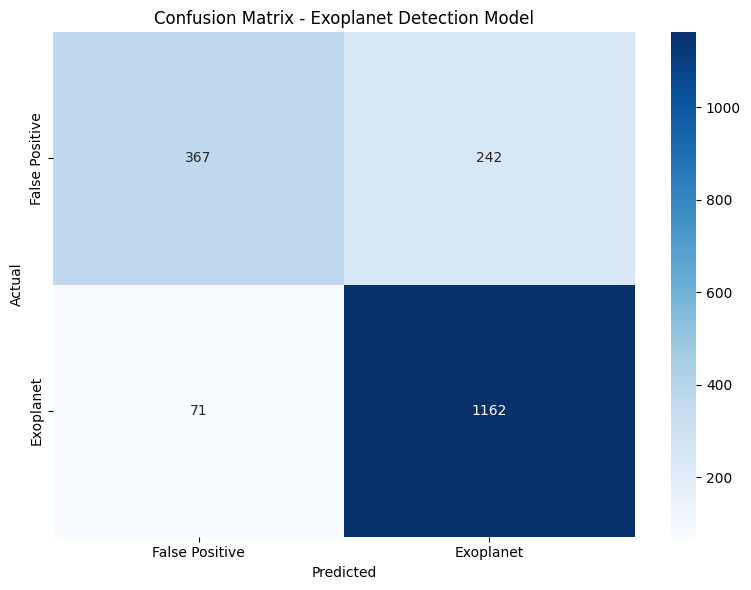
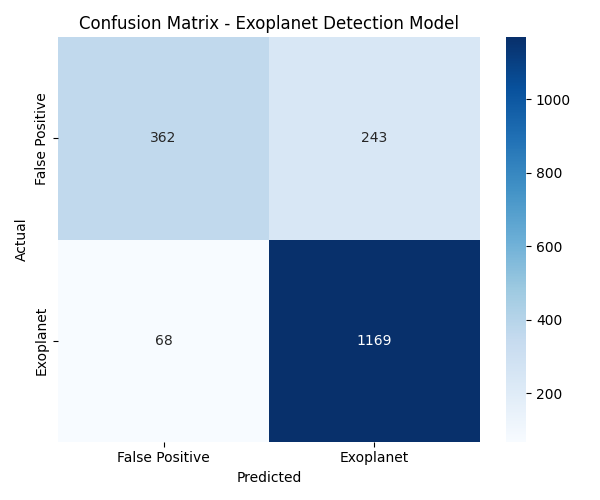
evaluate model now also updates the images accordingly

diff --git a/evaluate_model.py b/evaluate_model.py
@@ -9,6 +9,11 @@ import os
 import json
 from datetime import datetime
 import shutil
+import matplotlib
+matplotlib.use('Agg')
+import matplotlib.pyplot as plt
+import seaborn as sns
+import errno
 
 DATASET_PATH = 'merged_exoplanets.csv'
 
@@ -138,6 +143,139 @@ def evaluate_model(model, test_loader, test_size):
     }
 
 
+def _ensure_dir(path):
+    try:
+        os.makedirs(path, exist_ok=True)
+    except OSError as e:
+        if e.errno != errno.EEXIST:
+            raise
+
+
+def get_test_arrays():
+    """Return X_test, y_test using the same preprocessing/split as load_dataset()."""
+    seed = 42
+    np.random.seed(seed)
+    df = pd.read_csv(DATASET_PATH)
+    non_numeric_cols = df.select_dtypes(include=['object']).columns.tolist()
+    non_numeric_cols = [c for c in non_numeric_cols if c != 'disposition']
+    df = df.drop(columns=non_numeric_cols)
+    df = df.apply(pd.to_numeric, errors='coerce')
+    df = df.fillna(df.mean())
+    labels = df['disposition'].astype(int).values
+    features = df.drop(columns=['disposition']).values.astype(np.float32)
+    idx = np.arange(len(df))
+    np.random.shuffle(idx)
+    split = int(0.9 * len(idx))
+    test_idx = idx[split:]
+    X_test, y_test = features[test_idx], labels[test_idx]
+    return X_test, y_test
+
+
+def plot_roc_curve(y_true, probs, out_path):
+    try:
+        from sklearn.metrics import roc_curve, roc_auc_score
+        fpr, tpr, _ = roc_curve(y_true, probs)
+        auc = roc_auc_score(y_true, probs)
+        fig, ax = plt.subplots(figsize=(6, 6))
+        ax.plot(fpr, tpr, label=f'ROC (AUC = {auc:.4f})', color='#2563eb')
+        ax.plot([0, 1], [0, 1], '--', color='gray', label='Random Classifier')
+        ax.set_xlabel('False Positive Rate')
+        ax.set_ylabel('True Positive Rate')
+        ax.set_title('ROC Curve - Exoplanet Detection Model')
+        ax.legend(loc='lower right')
+        plt.tight_layout()
+        fig.savefig(out_path)
+        plt.close(fig)
+        print(f"Wrote ROC curve to {out_path}")
+    except Exception as e:
+        print(f"Failed to write ROC curve: {e}")
+
+
+def plot_confusion_matrix(cm, out_path):
+    try:
+        fig, ax = plt.subplots(figsize=(6, 5))
+        sns.heatmap(cm, annot=True, fmt='d', cmap='Blues', ax=ax,
+                    xticklabels=['False Positive', 'Exoplanet'],
+                    yticklabels=['False Positive', 'Exoplanet'])
+        ax.set_ylabel('Actual')
+        ax.set_xlabel('Predicted')
+        ax.set_title('Confusion Matrix - Exoplanet Detection Model')
+        plt.tight_layout()
+        fig.savefig(out_path)
+        plt.close(fig)
+        print(f"Wrote confusion matrix to {out_path}")
+    except Exception as e:
+        print(f"Failed to write confusion matrix: {e}")
+
+
+def plot_metrics_bar(metrics, out_path):
+    try:
+        names = list(metrics.keys())
+        values = [metrics[k] for k in names]
+        fig, ax = plt.subplots(figsize=(8, 4))
+        bars = ax.bar(names, values, color=['#1f77b4', '#ff7f0e', '#2ca02c', '#d62728', '#9467bd'])
+        ax.set_ylim(0, 1)
+        ax.set_title('Model Performance Metrics')
+        for bar, v in zip(bars, values):
+            ax.text(bar.get_x() + bar.get_width()/2, v + 0.01, f'{v:.3f}', ha='center')
+        plt.tight_layout()
+        fig.savefig(out_path)
+        plt.close(fig)
+        print(f"Wrote metrics bar chart to {out_path}")
+    except Exception as e:
+        print(f"Failed to write metrics bar chart: {e}")
+
+
+def plot_feature_influence(model, feature_names, out_path):
+    try:
+        weights = model.fc1.weight.detach().cpu().numpy()
+        importances = np.mean(np.abs(weights), axis=0)
+        if importances.sum() == 0:
+            print("Feature importances all zero; skipping")
+            return
+        normalized = importances / importances.sum()
+        fig, ax = plt.subplots(figsize=(10, 4))
+        bars = ax.bar(feature_names, normalized, color='#2563eb')
+        ax.set_title('Feature Influence (mean abs weight)')
+        plt.xticks(rotation=45, ha='right')
+        for bar, v in zip(bars, normalized):
+            ax.text(bar.get_x() + bar.get_width()/2, v + 0.001, f'{v:.2f}', ha='center')
+        plt.tight_layout()
+        fig.savefig(out_path)
+        plt.close(fig)
+        print(f"Wrote feature influence to {out_path}")
+    except Exception as e:
+        print(f"Failed to write feature influence: {e}")
+
+
+def plot_dataset_composition(out_path):
+    try:
+        df = pd.read_csv(DATASET_PATH)
+        non_numeric_cols = df.select_dtypes(include=['object']).columns.tolist()
+        non_numeric_cols = [c for c in non_numeric_cols if c != 'disposition']
+        df = df.drop(columns=non_numeric_cols)
+        df = df.apply(pd.to_numeric, errors='coerce')
+        df = df.fillna(df.mean())
+        labels = df['disposition'].astype(int).values
+        values, counts = np.unique(labels, return_counts=True)
+        # Map to readable names
+        label_names = ['False Positive', 'Exoplanet']
+        names = [label_names[v] if v < len(label_names) else f'Class {v}' for v in values]
+
+        fig, ax = plt.subplots(figsize=(6, 4))
+        bars = ax.bar(names, counts, color=['#111827', '#2563eb'])
+        ax.set_ylabel('Samples')
+        ax.set_title('Dataset Composition')
+        for bar, cnt in zip(bars, counts):
+            ax.text(bar.get_x() + bar.get_width()/2, bar.get_height(), f'{cnt}', ha='center', va='bottom')
+        plt.tight_layout()
+        fig.savefig(out_path)
+        plt.close(fig)
+        print(f"Wrote dataset composition to {out_path}")
+    except Exception as e:
+        print(f"Failed to write dataset composition: {e}")
+
+
 if __name__ == '__main__':
     print("=" * 70)
     print("EXOPLANET DETECTION MODEL - PERFORMANCE EVALUATION")
@@ -209,7 +347,7 @@ if __name__ == '__main__':
                 'eval_recall': float(results['recall']),
                 'eval_f1_score': float(results['f1_score']),
                 'eval_roc_auc': float(results['roc_auc']),
-                'eval_date_utc': datetime.utcnow().isoformat() + 'Z',
+                'eval_date_utc': datetime.now(datetime.UTC).isoformat() + 'Z',
                 'eval_test_size': int(results.get('total', test_size))
             }
 
@@ -225,7 +363,7 @@ if __name__ == '__main__':
             os.makedirs(ckpt_dir, exist_ok=True)
 
             if os.path.exists(checkpoint_path):
-                backup = checkpoint_path + f'.bak.{datetime.utcnow().strftime("%Y%m%dT%H%M%SZ")}' # create backup
+                backup = checkpoint_path + f'.bak.{datetime.now(datetime.UTC).strftime("%Y%m%dT%H%M%SZ")}' # create backup
                 try:
                     shutil.copy2(checkpoint_path, backup)
                 except Exception:
@@ -255,6 +393,51 @@ if __name__ == '__main__':
                 print(f"No checkpoint found; wrote metadata to {meta_path}")
         except Exception as e:
             print(f"Warning: failed to save metadata: {e}")
+
+        # generate visualization pngs
+        try:
+            out_dir = os.path.join('static', 'images', 'metrics')
+            _ensure_dir(out_dir)
+
+            # get test arrays and predictions
+            X_test, y_test = get_test_arrays()
+            with torch.no_grad():
+                outputs = model(torch.tensor(X_test, dtype=torch.float32))
+                probs = torch.sigmoid(outputs).cpu().numpy().flatten()
+
+            # ROC
+            plot_roc_curve(y_test, probs, os.path.join(out_dir, 'roc_curve.png'))
+
+            # Confusion matrix
+            preds = (probs > 0.5).astype(int)
+            cm = confusion_matrix(y_test, preds)
+            plot_confusion_matrix(cm, os.path.join(out_dir, 'confusion_matrix.png'))
+
+            # Metrics bar
+            metrics = {
+                'Accuracy': results['accuracy'],
+                'Precision': results['precision'],
+                'Recall': results['recall'],
+                'F1-Score': results['f1_score'],
+                'ROC-AUC': results['roc_auc']
+            }
+            plot_metrics_bar(metrics, os.path.join(out_dir, 'metrics.png'))
+
+            # Feature influence (use actual feature names matching app.py)
+            feature_names = [
+                'orbital_period', 'transit_duration', 'transit_depth', 'planet_radius',
+                'semi_major_axis', 'insolation_flux', 'equilibrium_temp',
+                'stellar_teff', 'stellar_radius', 'stellar_logg'
+            ]
+            # If model has different input dim, fall back to generated names
+            if len(feature_names) != model.fc1.in_features:
+                feature_names = [f'feat_{i}' for i in range(model.fc1.in_features)]
+            plot_feature_influence(model, feature_names, os.path.join(out_dir, 'feature_importance.png'))
+            # Dataset composition
+            plot_dataset_composition(os.path.join(out_dir, 'dataset_distribution.png'))
+
+        except Exception as e:
+            print(f"Warning: failed to generate/save visualizations: {e}")
 
     except FileNotFoundError:
         print(f"❌ No checkpoint found at {checkpoint_path}")
